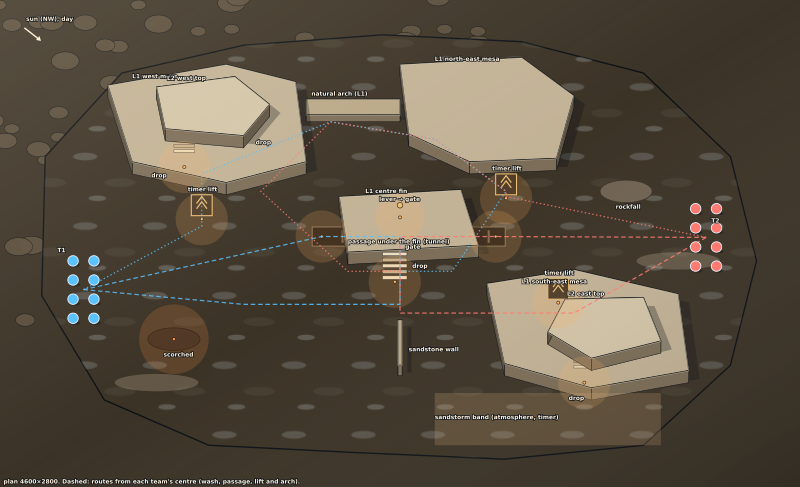
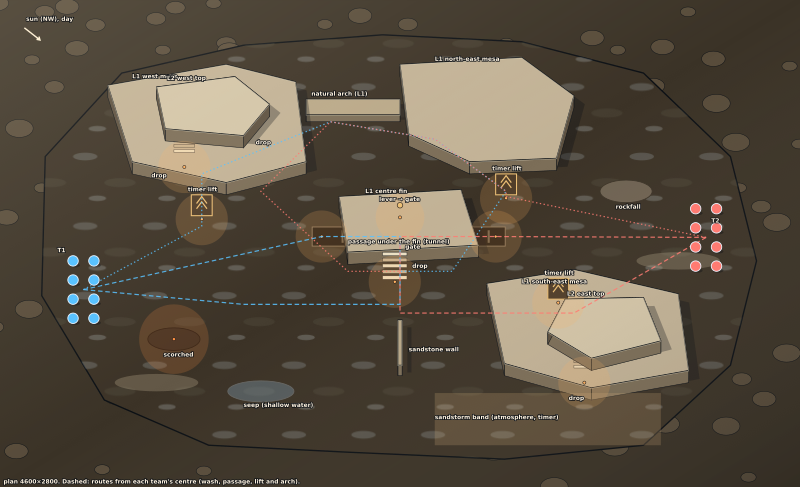
#3392: Elonian Plateau seep (shallow water), scree round the whole outline

diff --git a/docs/art/3073-elonian-plateau.md b/docs/art/3073-elonian-plateau.md
@@ -11,7 +11,7 @@ canyon between, a sandstorm on a timer) is kept.
 ## Rules the study holds
 
 - **Bounds** 4600×2800 = 12.88 M u² (2.55× Canyon, 8v8, short side 2800 ≥ 1800). The ground outline
-  fills 66 % of it, ragged, with `rock` (`OUTSIDE_KINDS`) outside: boulders and scree, drawn in the plan
+  fills 66 % of it, ragged, with `rock` (`OUTSIDE_KINDS`) outside: boulders and scree, drawn right round the outline in the plan
   and both spawn frames. Sized to the walk, not to today's 6400 width: the walk from a spawn to the
   centre is 11 s, under the 25 s cap.
 - **Biome `desert`** (visual-style §1): ground `#3b3226`, rock `#6e6252`, stone decks `#c2b296`,
@@ -34,7 +34,7 @@ canyon between, a sandstorm on a timer) is kept.
   passage at (2350,1360) (shut, the passage is a dead end for both teams alike; the wash and the
   lift-and-arch route remain). A **breakable sandstone wall** across the wash's south neck at x 2288, y 1840..2100.
   Zones: `scorched` (sun-baked rock, west, (1000,1950)) and `rockfall` (loose scree, east,
-  (3600,1100)), off all routes, ≥ 200 u from a spawn. The **sandstorm** is the atmosphere that exists
+  (3600,1100)), off all routes, ≥ 200 u from a spawn. A **seep**, a shallow standing pool (the shallow water look, `#8fb8d6` at 30 %, pale rim) at (1500,2250) on L0, south of the wash and ≥ 450 u from every route: walkable scenery, no zone, so the 5 % balance holds. The **sandstorm** is the atmosphere that exists
   (#3032), a pale band in the south-east, on a timer, and under bodies. If it is meant to cut vision
   or slow players, that is a mechanic: not designed here, listed below.
 - **Light:** the **Day** row (visual-style §2): sun from the NW, 50°, `#fff1d6` 0.55, ambient
@@ -46,7 +46,7 @@ canyon between, a sandstorm on a timer) is kept.
 ## Routes and balance (base speed 180 u/s)
 
 Eight seats a side in a 2×4 block: T1 centred (480,1655) in the west mouth, T2 (4180,1380) in the east. The centre is
-the foot of the centre fin, (2300,1560).
+the foot of the centre fin, (2300,1560). T2's block stands about 80 u from the east outline on purpose: it backs onto the rim, as T1 does not.
 
 | Route (T1 / T2)                                           | Length        | Walk          |
 | --------------------------------------------------------- | ------------- | ------------- |
